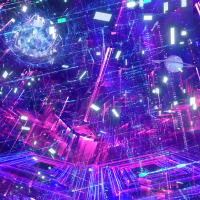
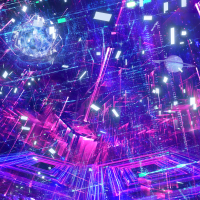
Updating background 2

diff --git a/resize.js b/resize.js
@@ -1,7 +1,7 @@
 const Jimp = require('jimp');
 
-const width = 600;
-const height = 600;
+const width = 400;
+const height = 400;
  
 async function run(file) {
     console.log(`Resizing ${file}`);
